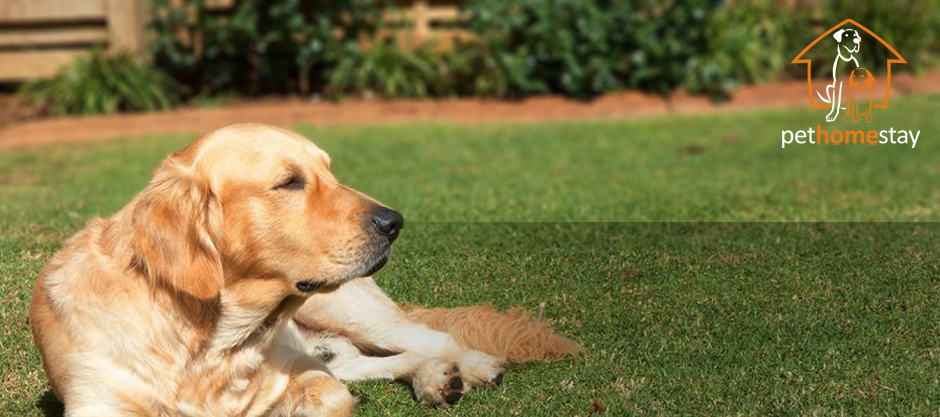
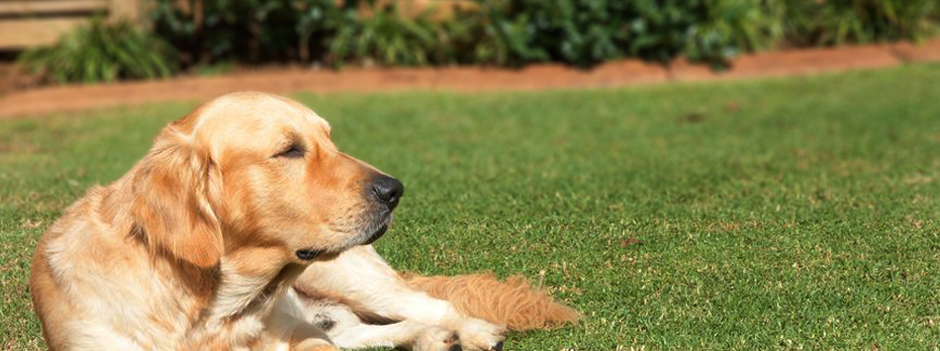
New homepage and navigation design.

diff --git a/app/assets/stylesheets/pages.css.less b/app/assets/stylesheets/pages.css.less
@@ -3,34 +3,49 @@
 .big-search {
   background: url('subtle.png');
   margin-top:40px;
-  height:380px;
-  margin-bottom: 60px;
+  height:351px;
+  margin-bottom: -40px;
   .container {
     background:url('hero.png');
-    height:417px;
+    height:351px;
   }
   .search-container {
+    position: relative;
+    z-index: 15;
     margin: 0 auto;
     width:500px;
     color: #fff;
-    margin-top:165px;
+    margin-top:70px;
     margin-left:420px;
     h2 {
       font-size: 36px;
-      margin-bottom: 6px;
+      margin-bottom: -6px;
       text-shadow: 1px 1px 1px rgba(0,0,0,0.8);
     }
     h3 {
-      margin-top: 20px;
-      font-style: italic;
+      margin-top: 10px;
       font-weight: normal;
-      margin-bottom: 39px;
+      margin-bottom: 67px;
       text-shadow: 1px 1px 1px rgba(0,0,0,0.8);
     }
     h4 {
       position: absolute;
       margin-top: -24px;
       text-shadow: 1px 1px 1px rgba(0,0,0,0.8);
+    }
+  }
+  .beta {
+    z-index: 5;
+    background: url('beta.png');
+    width: 122px;
+    height: 123px;
+    position: absolute;
+    margin-top: -42px;
+    margin-left: 823px;
+    a {
+      width:100%;
+      height: 100%;
+      display:block;
     }
   }
   input {

diff --git a/app/assets/stylesheets/application.css.less b/app/assets/stylesheets/application.css.less
@@ -17,6 +17,7 @@
 @orange:  #EA6E28;
 
 .navbar {
+  border-top: 3px solid @orange;
   .navbar-inner {
     min-height: 42px;
     .nav li a {
@@ -24,9 +25,17 @@
     }
   }
   .brand {
-    background: url('header-logo.png') 22px 0 no-repeat;
-    width: 135px;
+    background: url('header-logo.png') 22px 8px no-repeat;
+    width: 190px;
     text-indent: -9999px;
+    &.large {
+      background: url('header-logo-large.png') 22px 8px no-repeat;
+      height: 183px;
+      margin-bottom: -160px;
+      background: url('header-logo-large.png') 7px 0px no-repeat;
+      height: 183px;
+      margin-top: -5px;
+    }
   }
 }
 

diff --git a/app/assets/stylesheets/bootstrap_and_overrides.css.less b/app/assets/stylesheets/bootstrap_and_overrides.css.less
@@ -137,8 +137,12 @@
 // Navbar
 // -------------------------
 @navbarHeight:                    40px;
-@navbarBackground:                @orange;
-@navbarBackgroundHighlight:       #D86717;
+// @navbarBackground:                @orange;
+// @navbarBackgroundHighlight:       #D86717;
+@navbarBackground:                #59524e;
+@navbarBackgroundHighlight:       #635b57;
+
+
 
 @navbarText:                      @white;
 @navbarLinkColor:                 @white;
